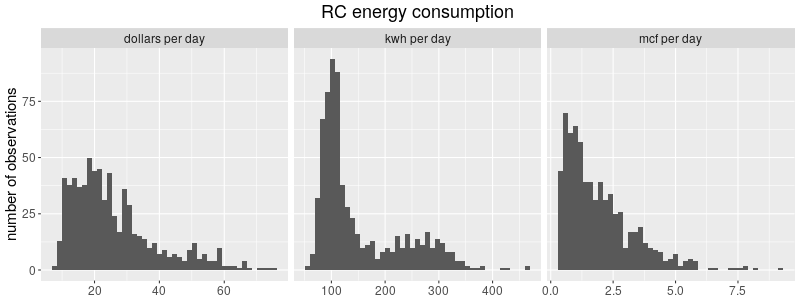
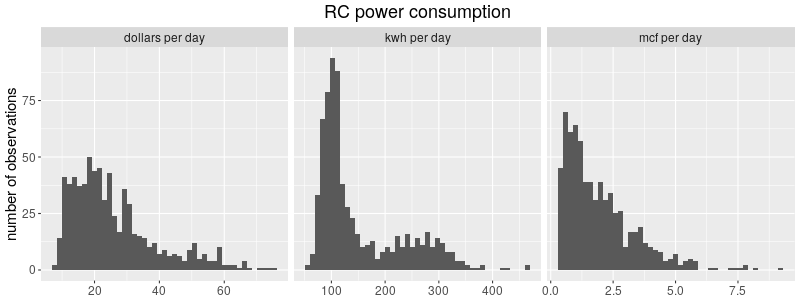
auto commit

diff --git a/index.html b/index.html
@@ -4,7 +4,7 @@
 <html xmlns="http://www.w3.org/1999/xhtml" lang="en" xml:lang="en">
 <head>
 <title></title>
-<!-- 2018-05-29 Tue 07:44 -->
+<!-- 2018-05-30 Wed 04:46 -->
 <meta  http-equiv="Content-Type" content="text/html;charset=utf-8" />
 <meta  name="generator" content="Org-mode" />
 <style type="text/css">
@@ -249,8 +249,8 @@ dollar cost&#x2014;over all times of the year and over all events.
 To be slightly more precise, 95% of the time the observed
 electricity power consumption was less than <code>311</code>
 kWh per day, gas consumption was less than <code>4.7</code>
-thousands of cubic feet per day and the overall cost was less than
-<code>54</code> dollars per day.
+thousand cubic feet per day and the overall energy cost was less
+than <code>54</code> dollars per day.
 </p>
 
 <p>
@@ -586,6 +586,10 @@ is the average degrees below 65 for the period, or in other words,
 The &alpha; parameter estimates and their standard errors look as
 follows:
 </p>
+<p>
+ 1 
+23
+</p>
 <table border="2" cellpadding="3">
 
 
@@ -729,7 +733,7 @@ where \(y\) is electricity consumption in kWh per day and the
 </div>
 </div>
 <div id="postamble" class="status">
-<p class="date">Created: 2018-05-29 Tue 07:44</p>
+<p class="date">Created: 2018-05-30 Wed 04:46</p>
 <p class="creator"><a href="http://www.gnu.org/software/emacs/">Emacs</a> 26.0.50.3 (<a href="http://orgmode.org">Org</a> mode 8.2.10)</p>
 <p class="validation"><a href="http://validator.w3.org/check?uri=referer">Validate</a></p>
 </div>
